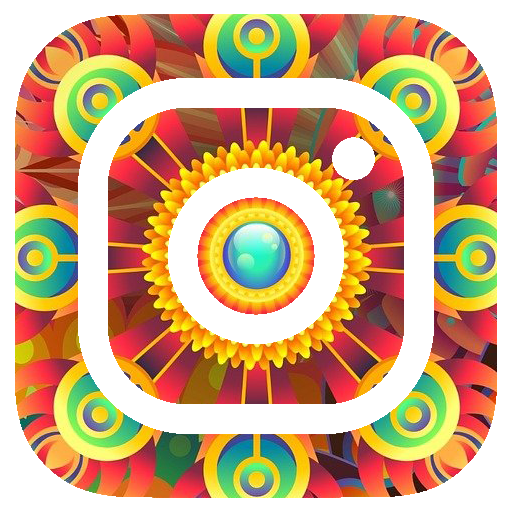
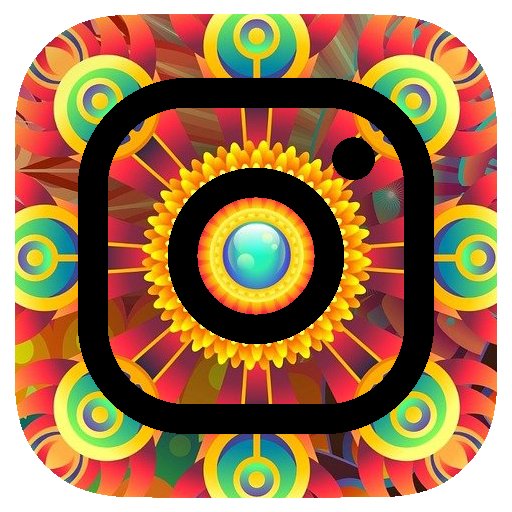
Little adjust

Changed region(s): [[0.125, 0.125, 0.875, 0.875], [0.3125, 0.3125, 0.6875, 0.6875]]

diff --git a/docs/index.html b/docs/index.html
@@ -52,9 +52,9 @@
 		<div class="background-wrapper"></div>
 	
 		<div class="offcanvas offcanvas-end" tabindex="-1" id="offcanvasRight" aria-labelledby="offcanvasRightLabel">
-				<div class="offcanvas-header">
-				<button type="button" class="btn-close text-reset" data-bs-dismiss="offcanvas" aria-label="Close"></button>
-				</div>
+			<div class="offcanvas-header d-flex justify-content-end">
+				<i class="fal fa-times fa-2x" type="button"  data-bs-dismiss="offcanvas" aria-label="Close"></i>
+			</div>
 			<div class="offcanvas-body" id="eventbrite-widget-container-164597368159">
 			</div>
 		  </div>

diff --git a/docs/css/script.css b/docs/css/script.css
@@ -81,7 +81,7 @@ body{
 .publi-call{height: 20px; width: 20px;}
 .publi-call:hover{opacity: 0.3; transition: 0.4s;}
 .insta-call{height: 80px; width: 80px;    position: absolute;filter: invert(1);
-    z-index: 1000;
+    z-index: 10;
     margin-left: -50px;
     margin: -30px;}
 
